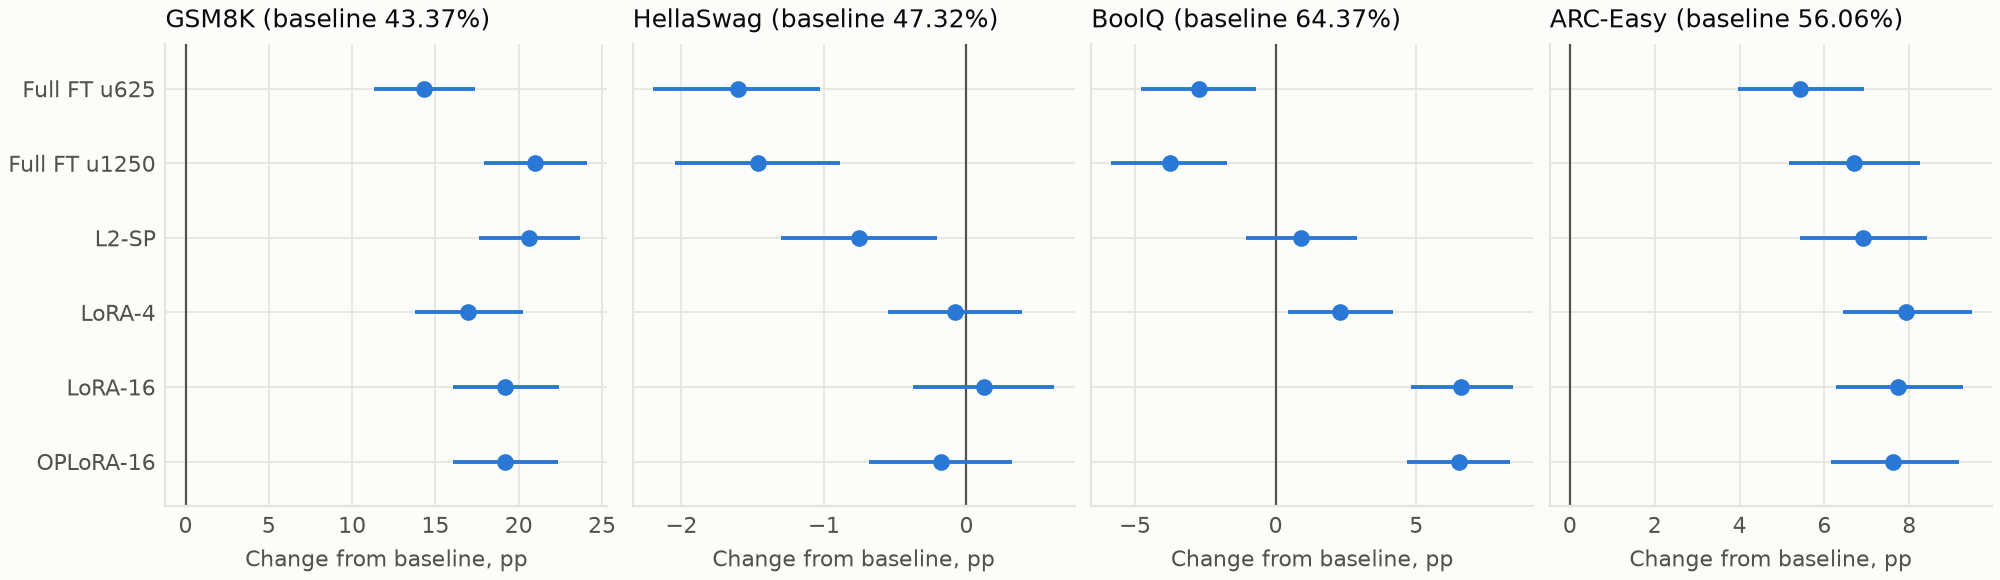
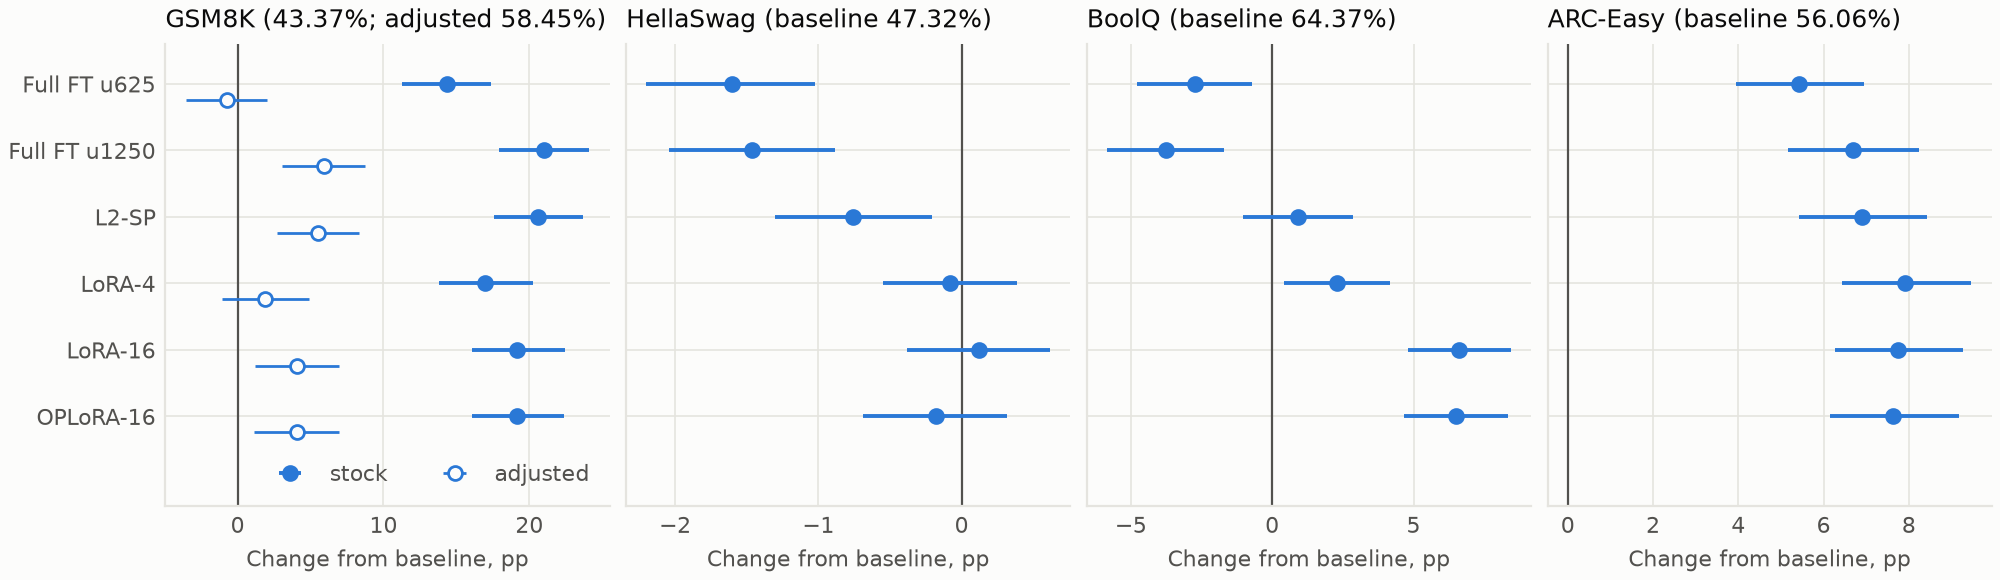
Task 1: analysis outputs with the adjusted GSM8K score

diff --git a/results/task1/analysis/summary.md b/results/task1/analysis/summary.md
@@ -86,6 +86,27 @@ Items gained and lost against the baseline:
 | lora16_u1250 | 368 | 2 | 0 | 366 | 195 | 157 | 115 | 0 | 1 | 114 |
 | oplora16_u1250 | 370 | 3 | 0 | 367 | 198 | 154 | 117 | 0 | 0 | 117 |
 
+Adjusted score (not the primary metric): where the stock answer has no digit, the last stock-pattern match with a digit; stock normalization; the gold is not used to choose the answer:
+
+| condition | stock correct | adjusted correct | recovered | recovered truncated | numeric equal, still wrong | stock % | adjusted % | stock change pp | adjusted change pp |
+|---|---|---|---|---|---|---|---|---|---|
+| baseline | 572 | 771 | 199 | 0 | 26 | 43.37 | 58.45 | +0.00 | +0.00 |
+| full_ft_u0625 | 761 | 761 | 0 | 0 | 0 | 57.70 | 57.70 | +14.33 | -0.76 |
+| full_ft_u1250 | 849 | 849 | 0 | 0 | 0 | 64.37 | 64.37 | +21.00 | +5.91 |
+| l2sp_u1250 | 844 | 844 | 0 | 0 | 0 | 63.99 | 63.99 | +20.62 | +5.53 |
+| lora4_u1250 | 796 | 796 | 0 | 0 | 0 | 60.35 | 60.35 | +16.98 | +1.90 |
+| lora16_u1250 | 825 | 825 | 0 | 0 | 0 | 62.55 | 62.55 | +19.18 | +4.09 |
+| oplora16_u1250 | 825 | 825 | 0 | 0 | 0 | 62.55 | 62.55 | +19.18 | +4.09 |
+
+| A | B | A - B pp, adjusted | 95% CI pp | only A correct | only B correct | n |
+|---|---|---|---|---|---|---|
+| full_ft_u0625 | baseline | -0.76 | [-3.56, +2.05] | 176 | 186 | 1319 |
+| full_ft_u1250 | baseline | +5.91 | [+3.03, +8.72] | 222 | 144 | 1319 |
+| l2sp_u1250 | baseline | +5.53 | [+2.73, +8.34] | 216 | 143 | 1319 |
+| lora4_u1250 | baseline | +1.90 | [-1.06, +4.93] | 210 | 185 | 1319 |
+| lora16_u1250 | baseline | +4.09 | [+1.21, +6.97] | 211 | 157 | 1319 |
+| oplora16_u1250 | baseline | +4.09 | [+1.14, +6.97] | 216 | 162 | 1319 |
+
 ## 3. Prediction balance and normalization
 
 | condition | gold yes % | pred yes % | acc % | acc gold yes % | acc gold no % |
